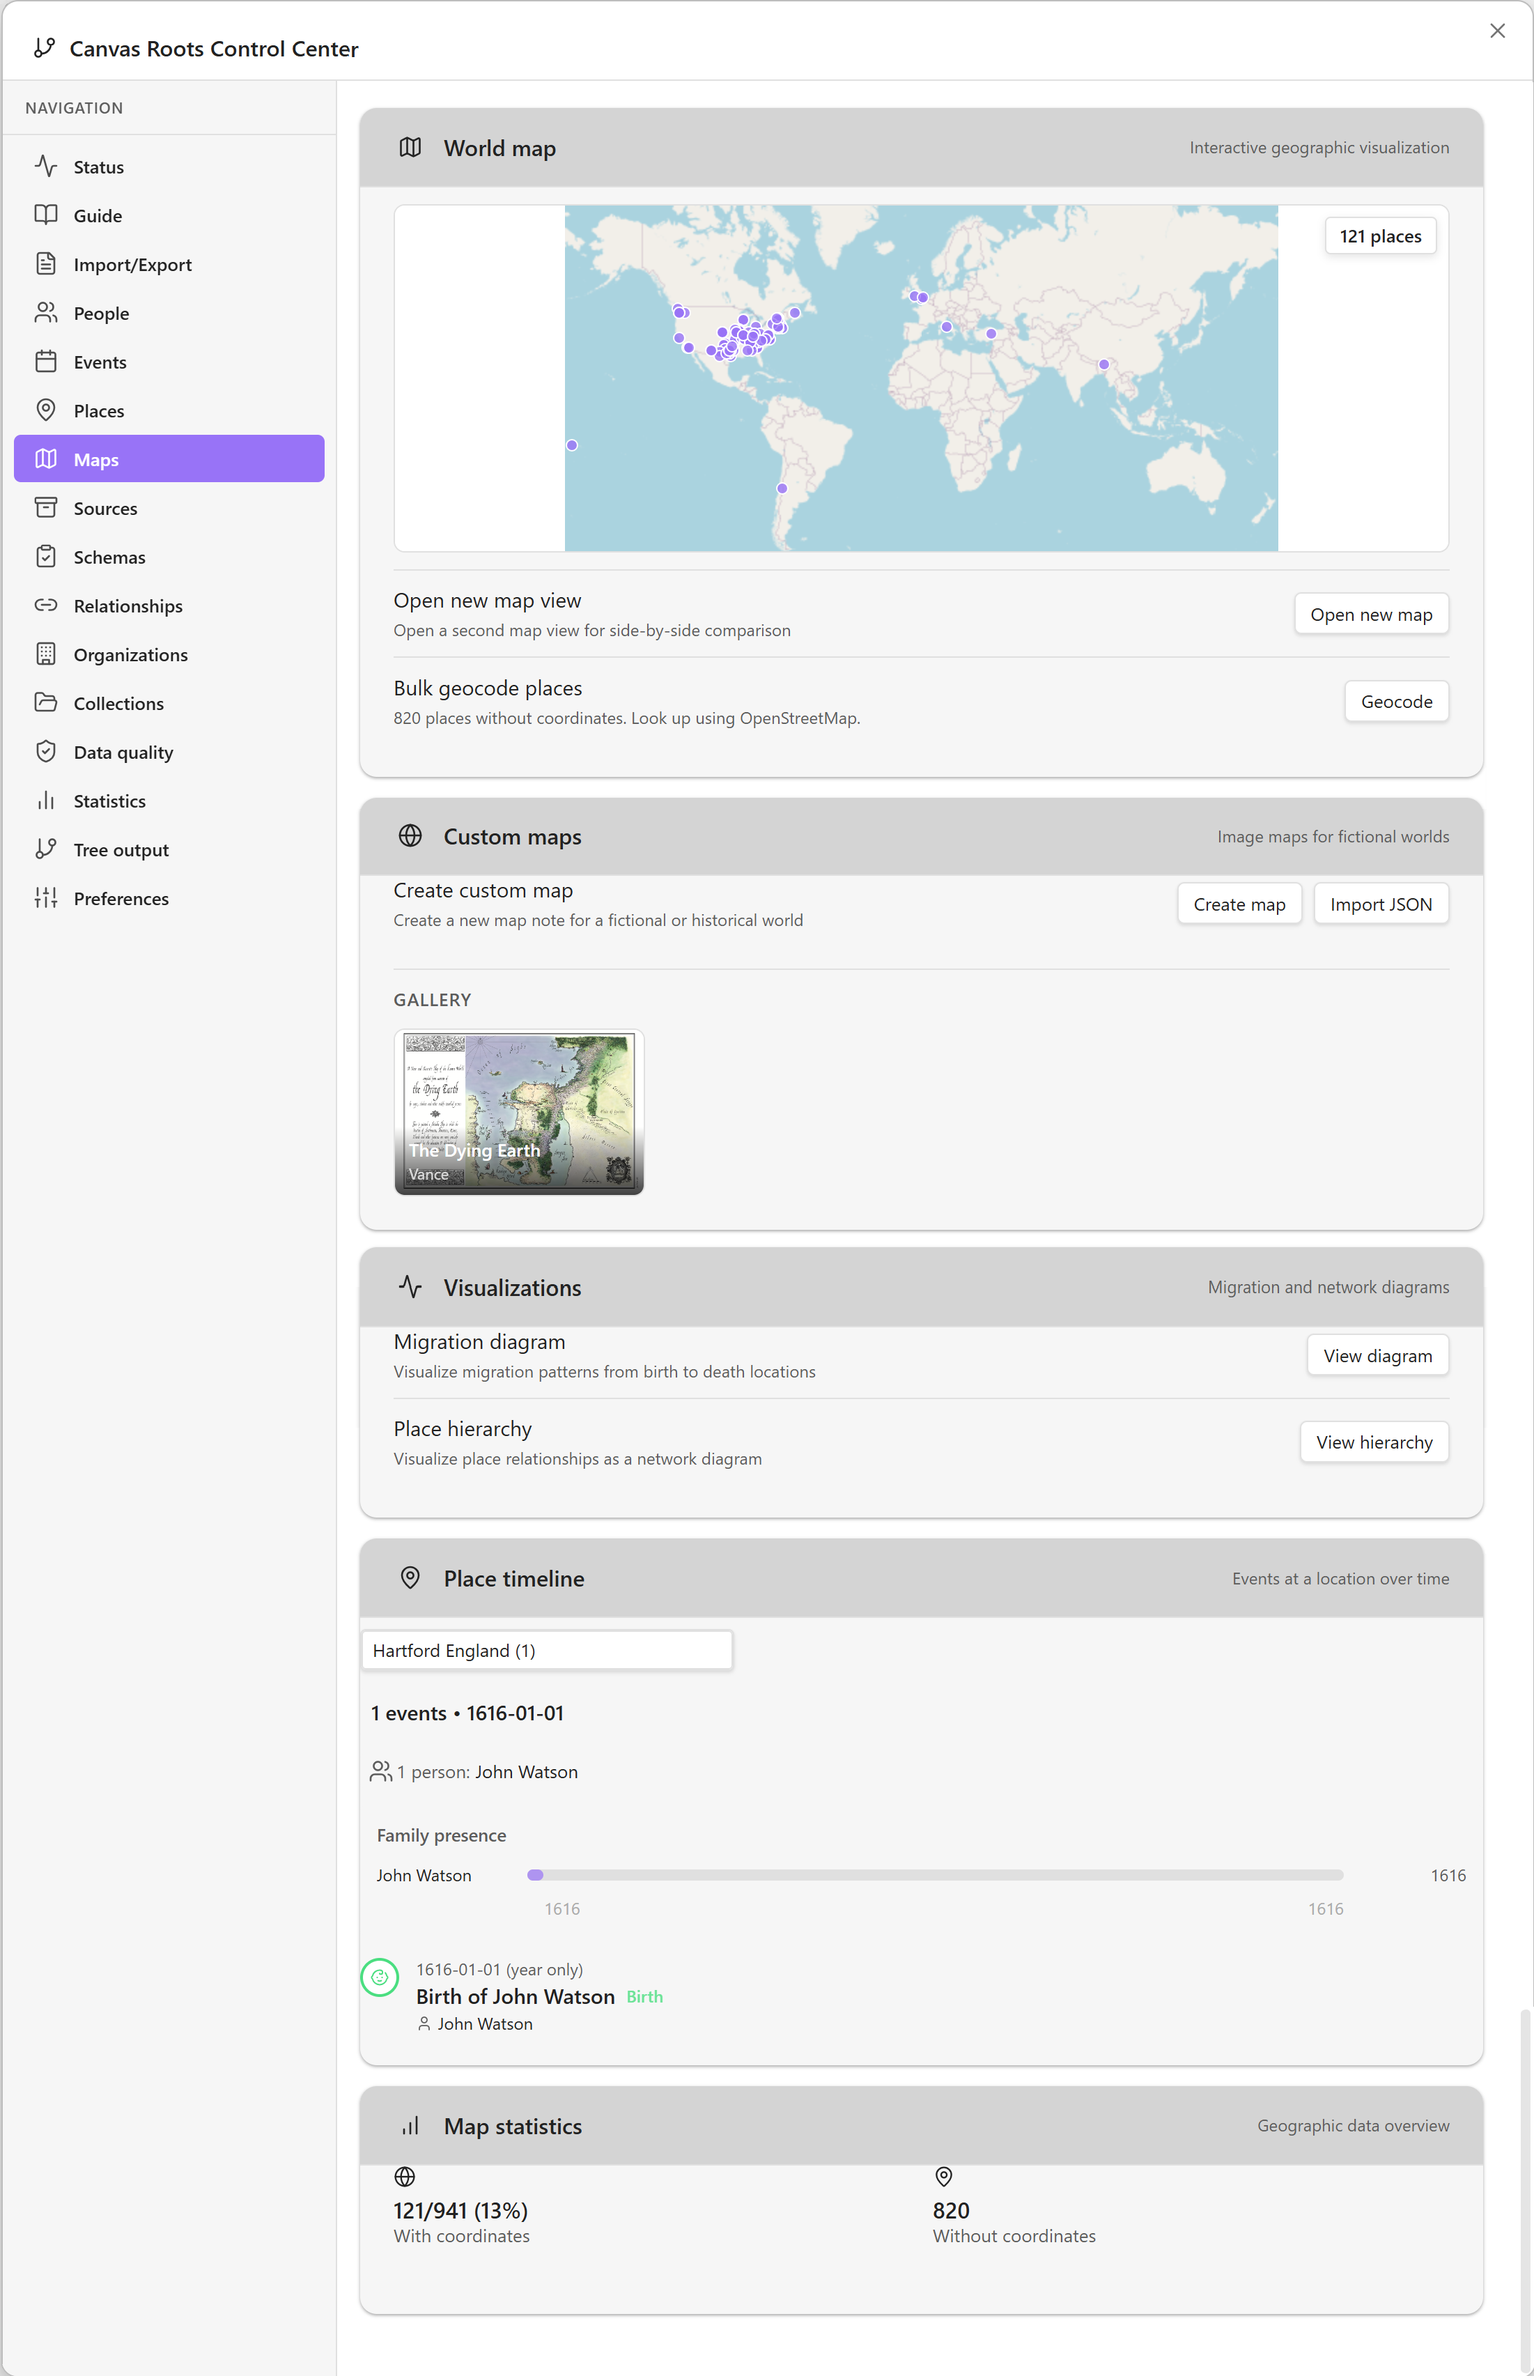
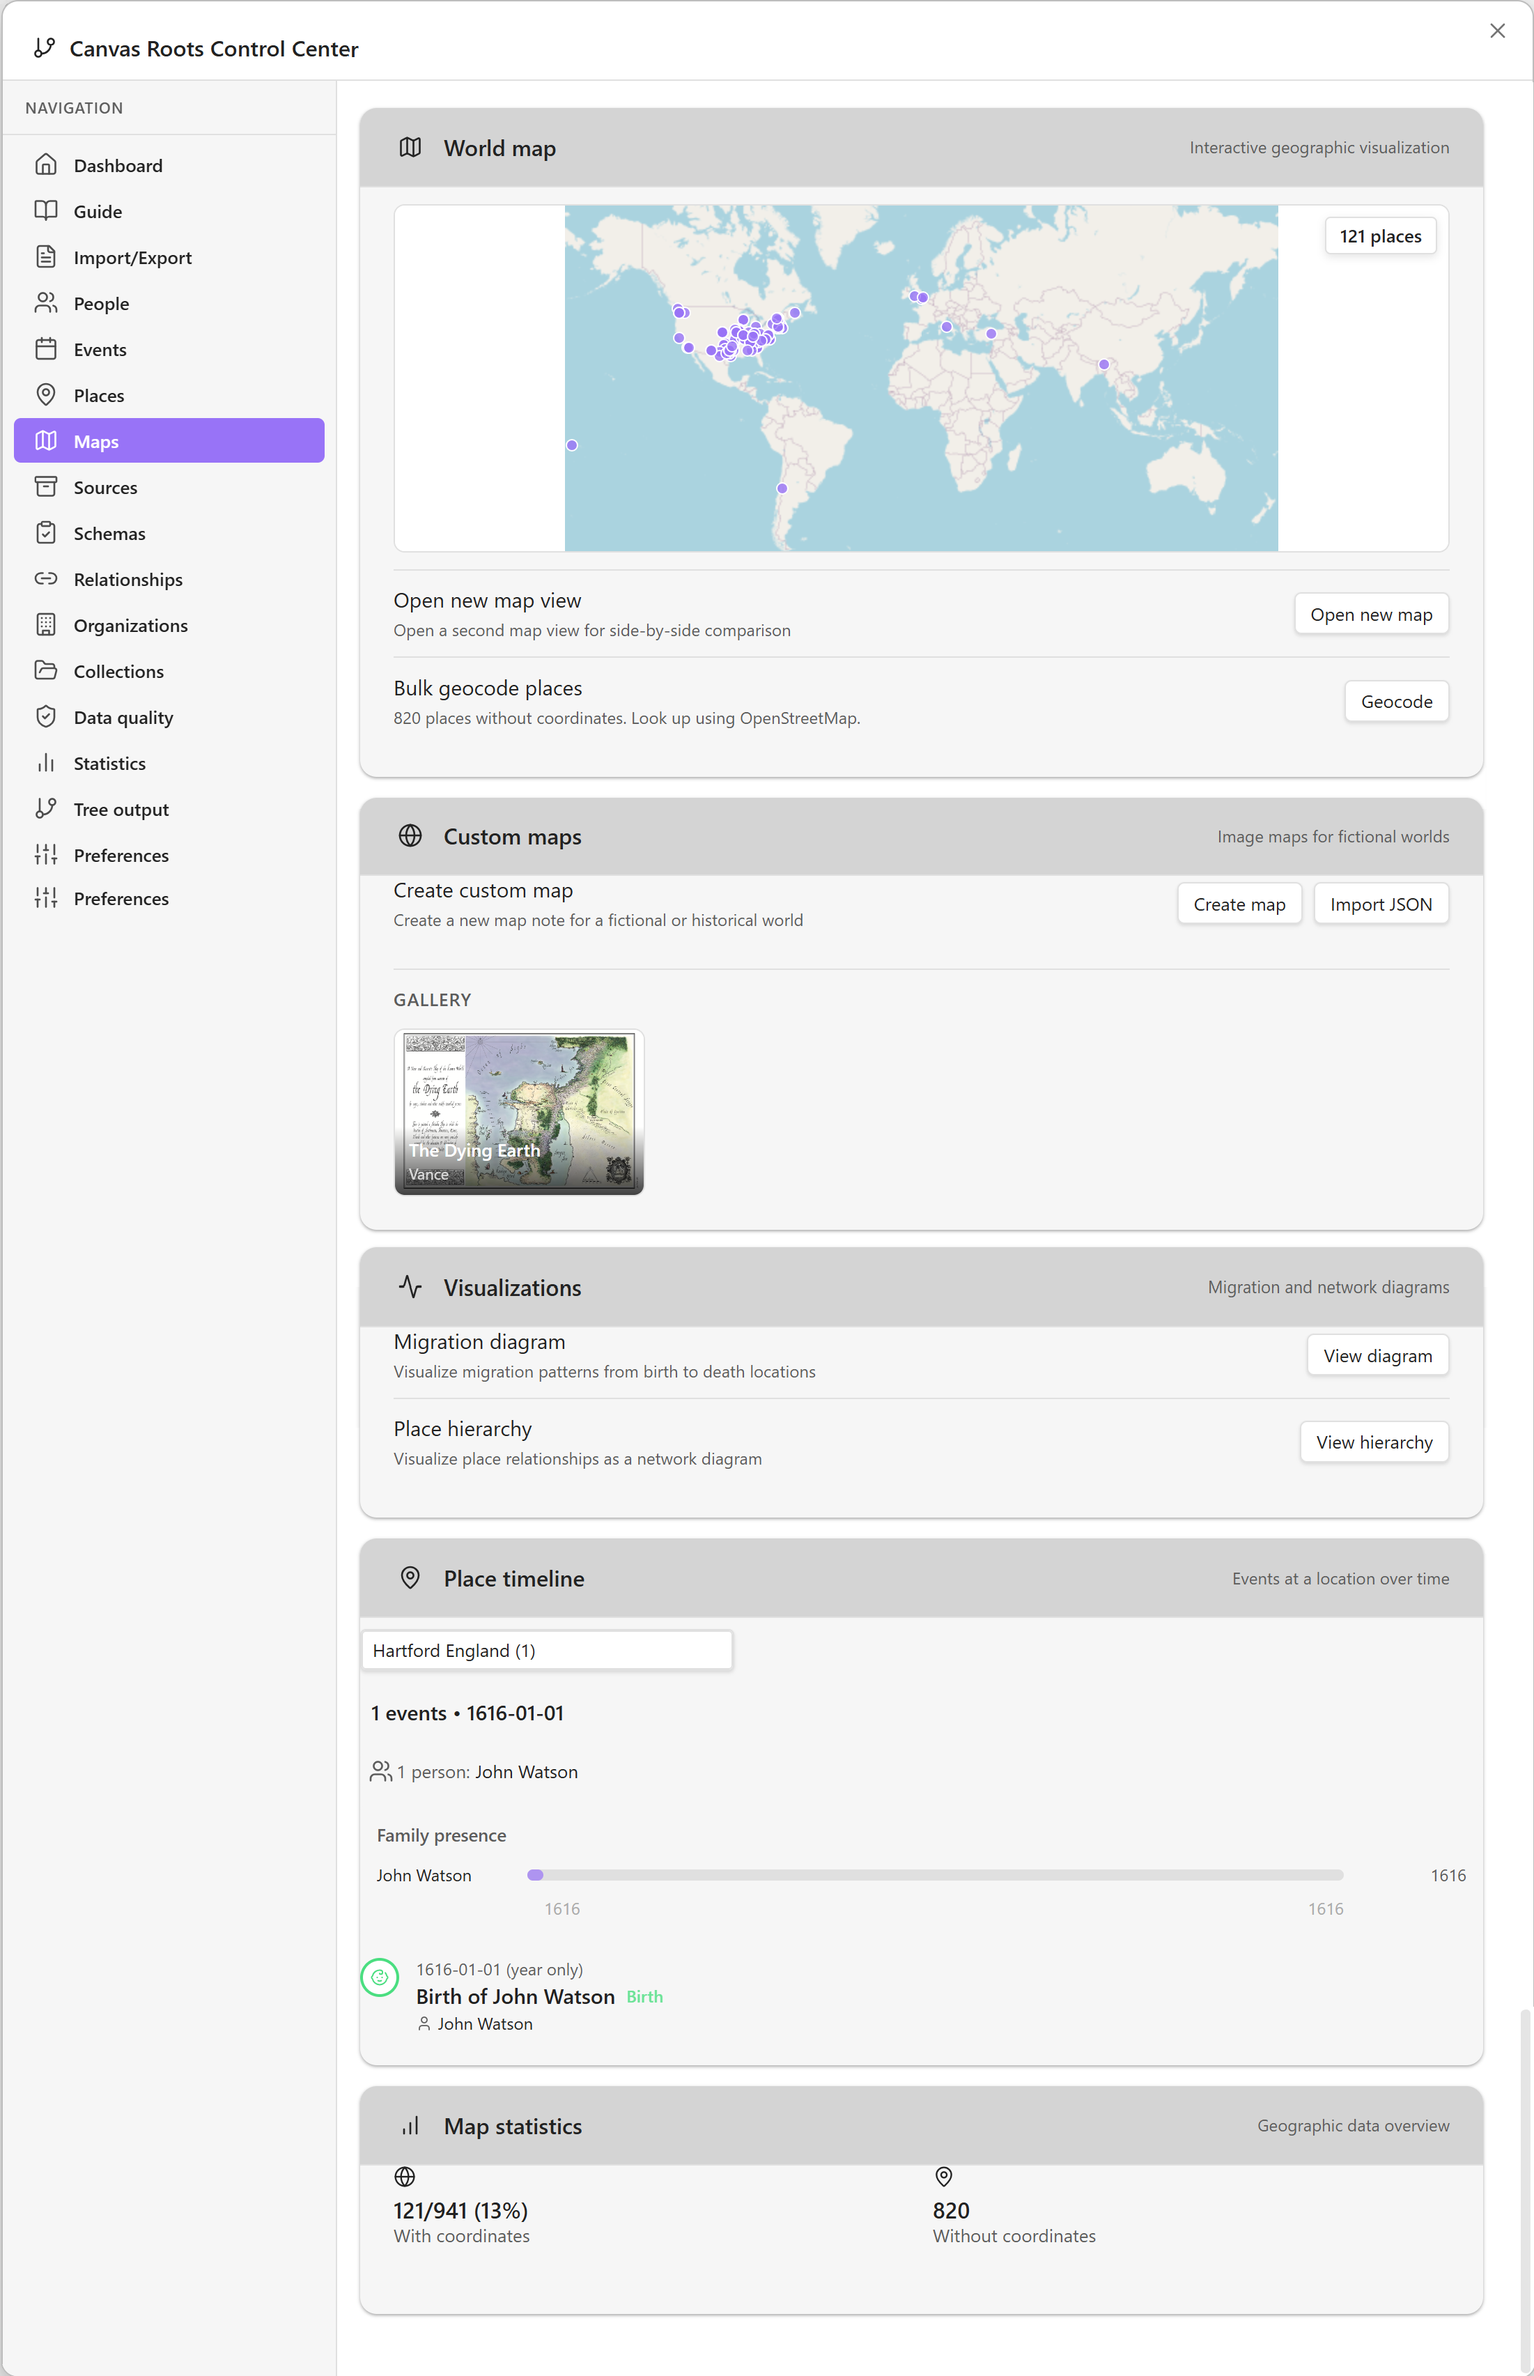
Update Control Center screenshots for Dashboard tab

Changed region(s): [[0.0, 0.0622, 0.2162, 0.373]]

diff --git a/README.md b/README.md
@@ -156,7 +156,7 @@
 *Real-time family tree visualization with pan/zoom, person details panel, and direct editing with bidirectional sync.*
 
 ### Control Center
-<img src="docs/images/canvas-roots-control-center-status-tab.png" alt="Control Center Status Tab" width="700">
+<img src="docs/images/canvas-roots-control-center-dashboard-tab.png" alt="Control Center Dashboard Tab" width="700">
 
 *Central hub for all Canvas Roots operations: vault statistics, import/export, tree generation, data quality tools, and quick actions.*
 
